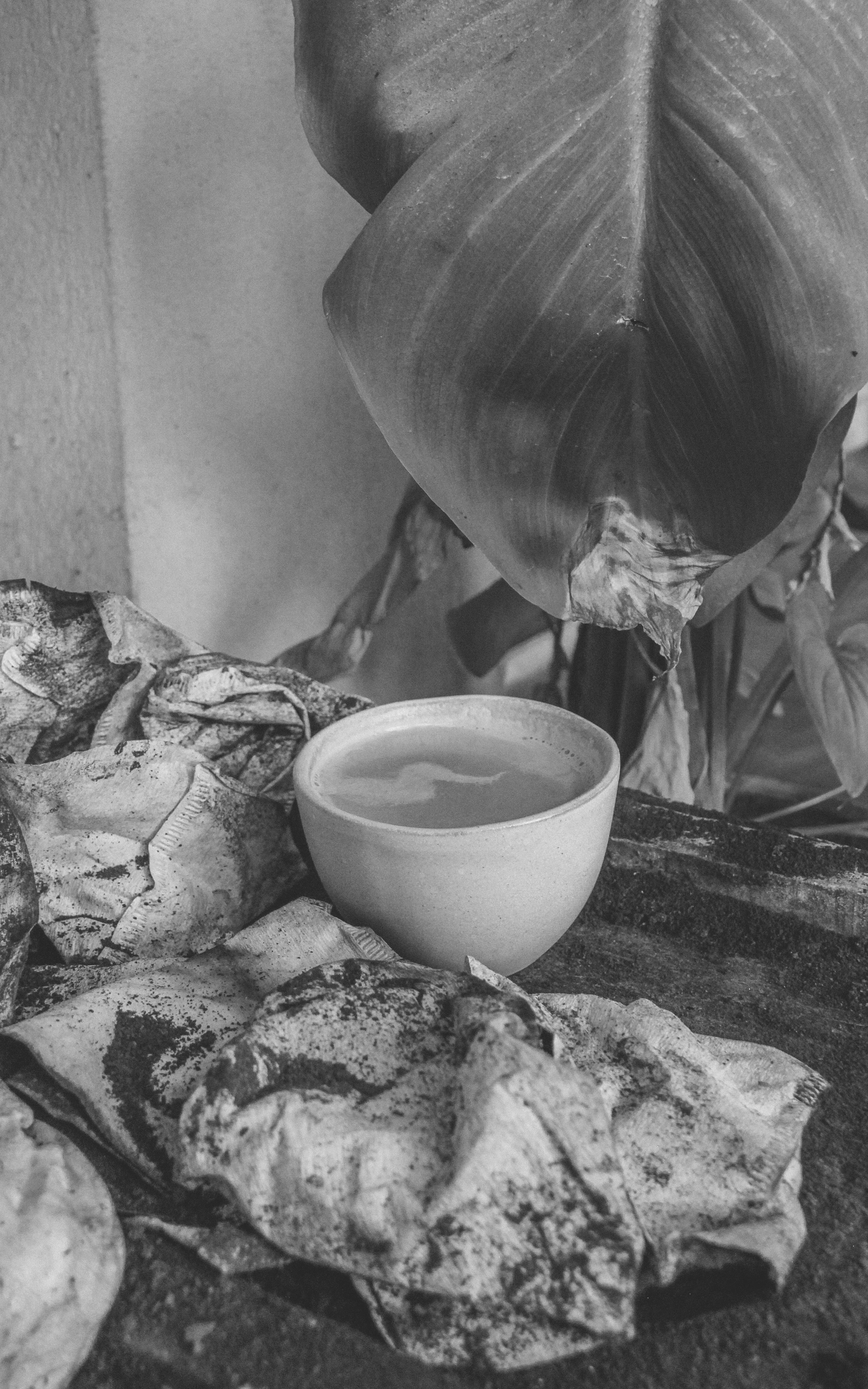
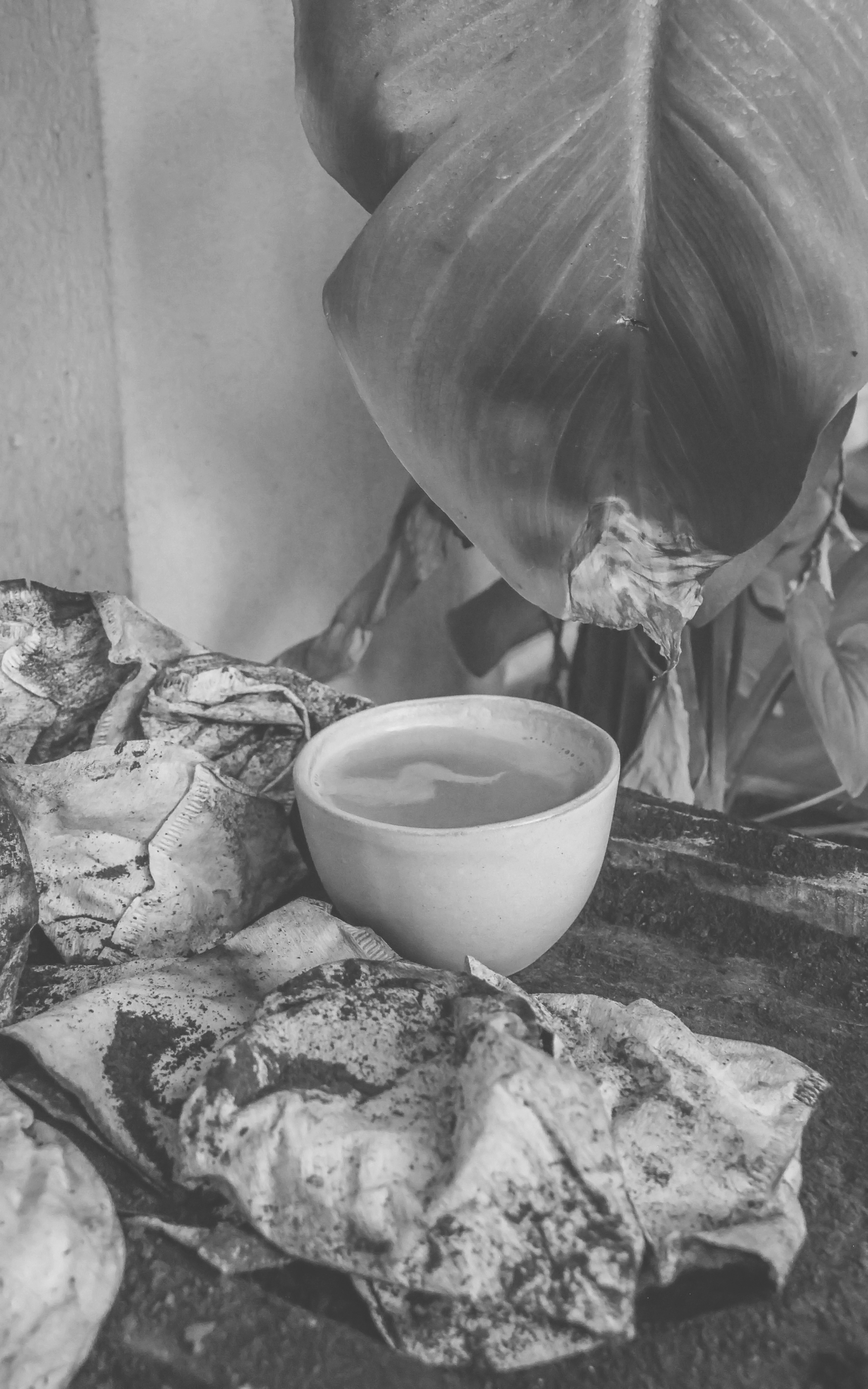
fixed tea images and tea shop images

diff --git a/pages/categories/flavored.html b/pages/categories/flavored.html
@@ -84,11 +84,11 @@
 
 <main class="container-fluid">
 <section id="shop" class="text-center">
- <img src="../../images/shop/tea-cups.jpg" alt="" class="tea-cups">
-  <h1 class="brown">FLAVORED</h1>
+ <img src="../../images/shop/tea-cups.jpg" alt="" class="tea-cups w-100">
+  <h1 class="brown mb-lg-0 mb-5 ">FLAVORED</h1>
     <div class="listings text-sm-left col-12 text-center mx-auto pb-3">
     	<a href="../pages/products/blackberry-sage-oolong.html">
-			<div class="text-center mt-5 pb-2">
+			<div class="text-center mt-5">
 				<p class="category my-0 new">NEW</p>
 				<img class="py-5 mt-0 mb-5 w-100" src="../../images/shop/newest-additions/blackberry_sage_oolong.jpg" alt="">
 				<div class="label">

diff --git a/pages/categories/original-tea.html b/pages/categories/original-tea.html
@@ -84,11 +84,11 @@
 
 <main class="container-fluid">
 <section id="shop" class="text-center">
- <img src="../../images/shop/tea-cups.jpg" alt="" class="tea-cups">
-  <h1 class="brown">LOOSE LEAF</h1>
+ <img src="../../images/shop/tea-cups.jpg" alt="" class="tea-cups w-100">
+  <h1 class="brown mb-lg-0 mb-5">LOOSE LEAF</h1>
     <div class="listings text-sm-left text-center mx-auto pb-3 col-12">
 		<a href="../pages/products/chamomile.html">
-			<div class="text-center">
+			<div class="text-center mt-5">
 				<p class="category my-0 hot">POPULAR</p>
 				<img class="py-5 mt-0 mb-5 w-100" src="../../images/shop/newest-additions/chamomile.jpg" alt="">
 				<div class="label">

diff --git a/pages/categories/sample-set.html b/pages/categories/sample-set.html
@@ -84,11 +84,11 @@
 
 <main class="container-fluid">
 <section id="shop" class="text-center">
- <img src="../../images/shop/tea-cups.jpg" alt="" class="tea-cups">
-  <h1 class="brown">SAMPLE SETS</h1>
+ <img src="../../images/shop/tea-cups.jpg" alt="" class="tea-cups w-100">
+  <h1 class="brown mb-lg-0 mb-5">SAMPLE SETS</h1>
     <div class="listings text-sm-left text-center mx-auto col-12 pb-3">
     	<a href="../pages/products/tea-chest.html">
-			<div class="text-center">
+			<div class="text-center mt-5">
 				<p class="category my-0 hot">POPULAR</p>
 				<img class="py-5 mt-0 mb-5 w-100" src="../../images/shop/samples/tea_chest.jpg" alt="">
 				<div class="label">

diff --git a/styles/css/style.css b/styles/css/style.css
@@ -19,9 +19,9 @@
       top: 40px;
       right: 65px; } }
   .cart .cart-btn:hover p, .cart .cart-btn:hover i {
-    color: #606060 !important; }
+    color: #acacac !important; }
   .cart .cart-btn p, .cart .cart-btn i {
-    color: #acacac !important;
+    color: #606060 !important;
     -webkit-transition: 0.2s;
     -o-transition: 0.2s;
     transition: 0.2s; }
@@ -280,7 +280,7 @@
     height: 70vh;
     display: inline-block;
     padding: 0 !important;
-    opacity: 0.8;
+    opacity: 0.95;
     margin: -1px;
     border: 8px solid #f1f1f1;
     float: left;

diff --git a/styles/scss/_shopping.scss b/styles/scss/_shopping.scss
@@ -22,10 +22,10 @@
 		right: 65px;
 	}
 	&:hover p, &:hover i {
-		color: $darkerGrey !important;
+		color: $darkGrey !important;
 	}
 	p, i {
-		color: $darkGrey !important;
+		color: $darkerGrey !important;
 		transition: 0.2s;
 	}
 	p {
@@ -280,7 +280,7 @@
 		height: 70vh;
 		display: inline-block;
 		padding: 0 !important;
-		opacity: 0.8;
+		opacity: 0.95;
 		margin: -1px;
 		border: 8px solid $lightGrey;
 		float: left;
